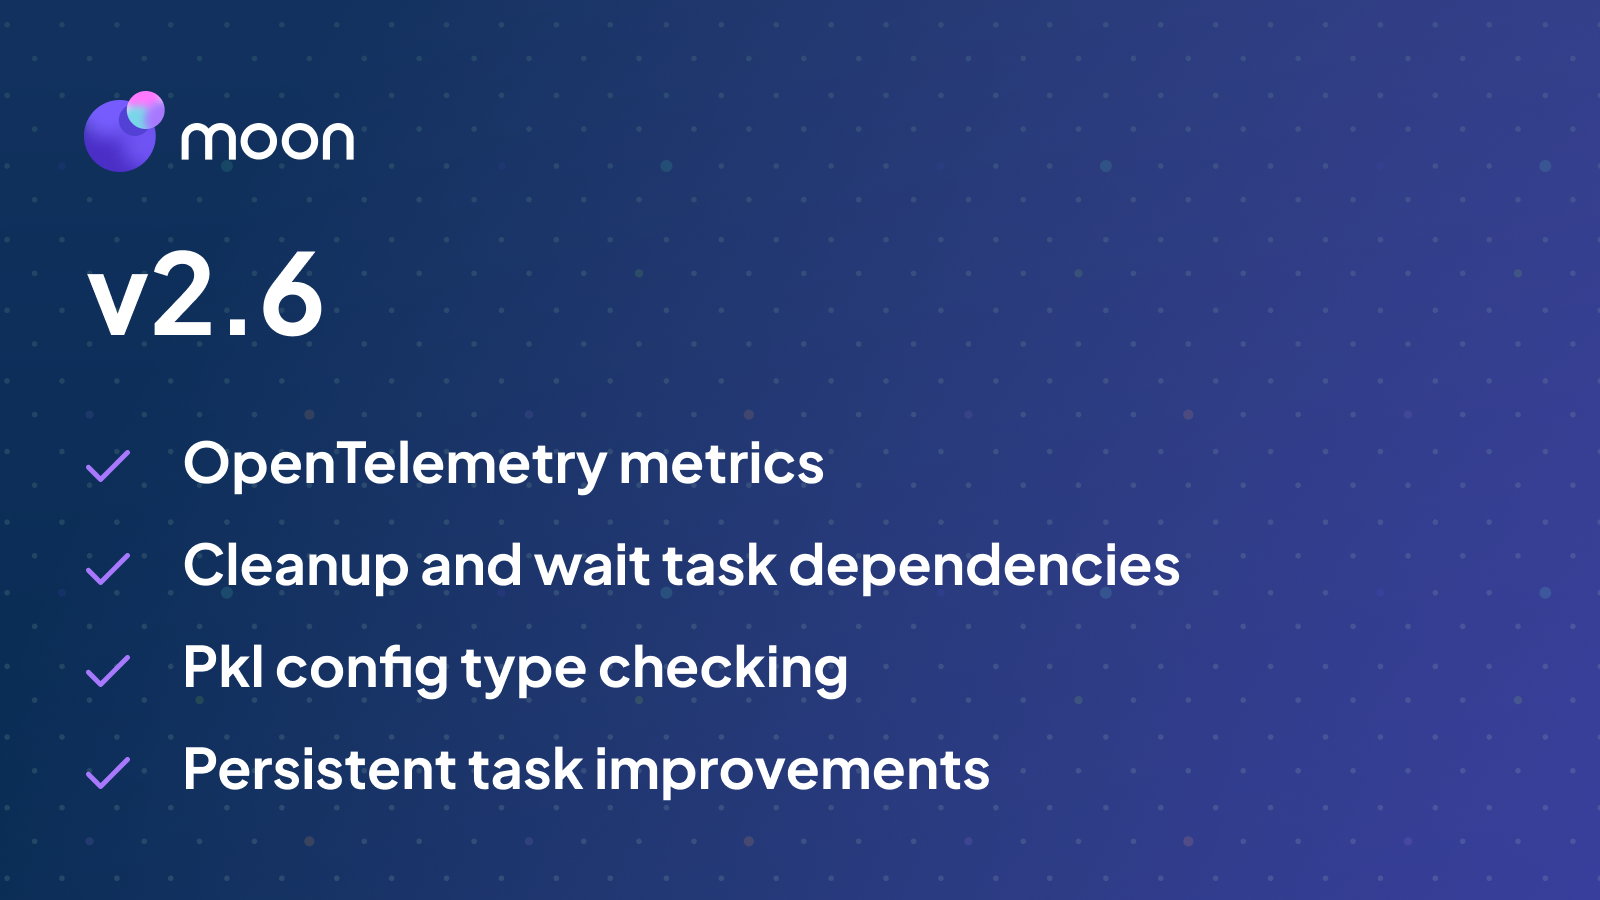
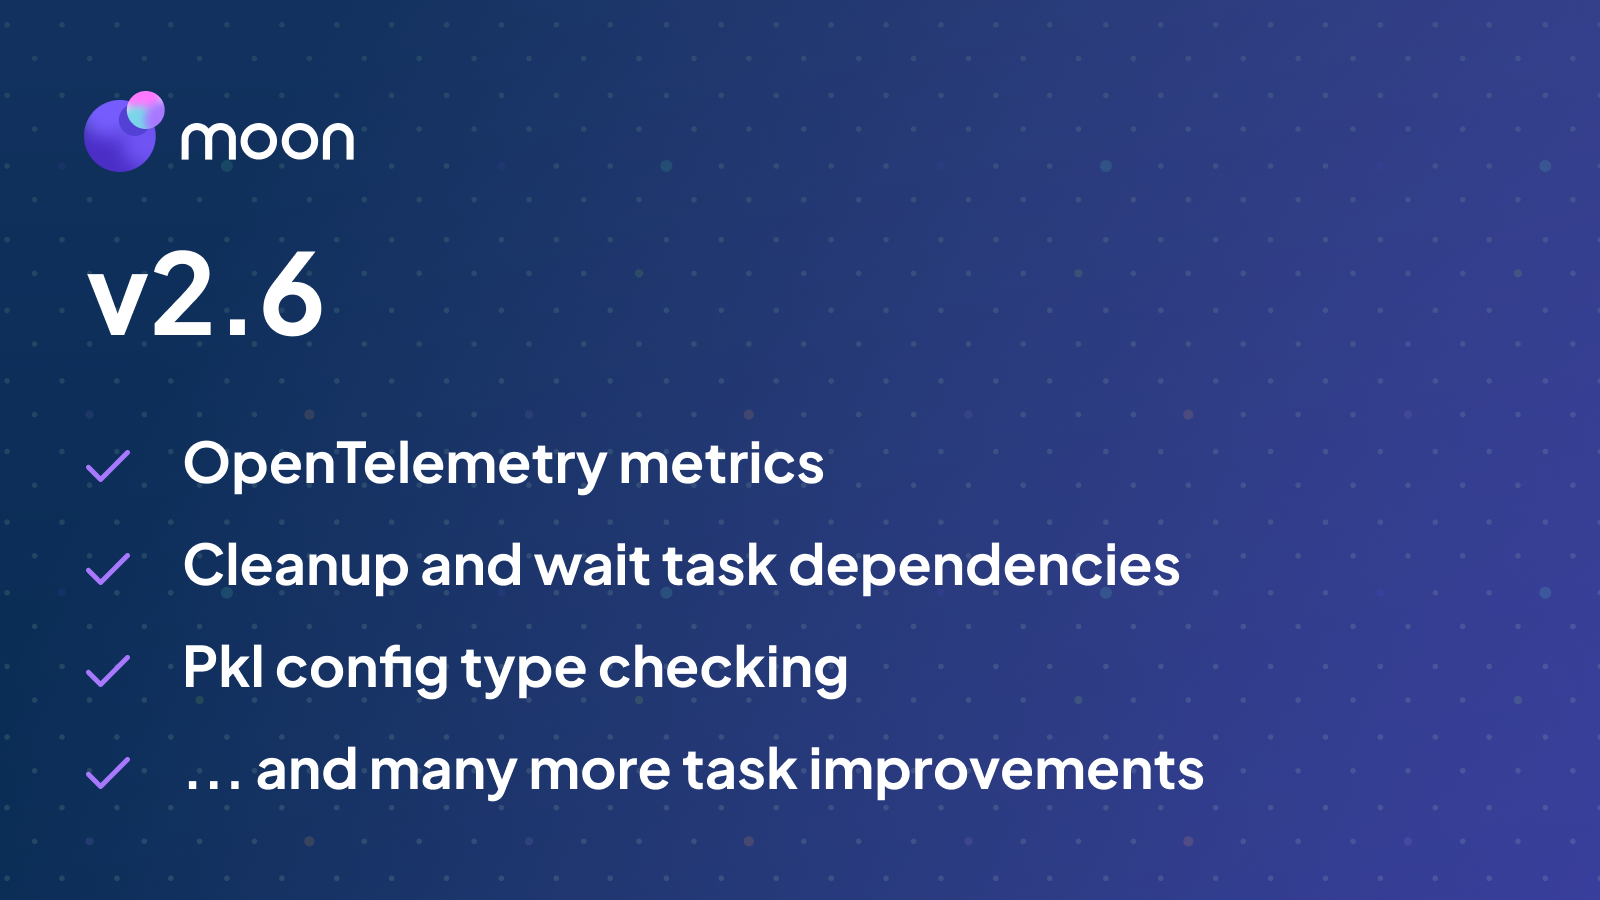
Polish.

Changed region(s): [[0.0938, 0.84, 0.75, 0.9022]]

diff --git a/packages/report/tests/report.test.ts b/packages/report/tests/report.test.ts
@@ -8,6 +8,7 @@ function mockReport(): RunReport {
 		actions: [
 			{
 				allowFailure: false,
+				expectFailure: false,
 				createdAt: '2022-09-12T22:50:12.621680Z',
 				duration: {
 					secs: 0,
@@ -27,6 +28,7 @@ function mockReport(): RunReport {
 			},
 			{
 				allowFailure: false,
+				expectFailure: false,
 				createdAt: '2022-09-12T22:50:12.932177Z',
 				duration: {
 					secs: 1922,
@@ -46,6 +48,7 @@ function mockReport(): RunReport {
 			},
 			{
 				allowFailure: false,
+				expectFailure: false,
 				createdAt: '2022-09-12T22:50:12.932228Z',
 				duration: {
 					secs: 64,
@@ -65,6 +68,7 @@ function mockReport(): RunReport {
 			},
 			{
 				allowFailure: false,
+				expectFailure: false,
 				createdAt: '2022-09-12T22:50:12.932311Z',
 				duration: {
 					secs: 34,

diff --git a/packages/report/tests/action.test.ts b/packages/report/tests/action.test.ts
@@ -5,6 +5,7 @@ import { isFlaky, isSlow } from '../src';
 
 const action: Action = {
 	allowFailure: false,
+	expectFailure: false,
 	createdAt: '2022-09-12T22:50:12.932311Z',
 	duration: {
 		secs: 34,

diff --git a/crates/config-loader/src/toolchains_config_ext.rs b/crates/config-loader/src/toolchains_config_ext.rs
@@ -14,13 +14,13 @@ impl ToolchainsConfigExt {
 
         match id.as_str() {
             "bun" => Some(locate("bun_toolchain", "1.0.5")),
-            "deno" => Some(locate("deno_toolchain", "1.1.2")),
-            "go" => Some(locate("go_toolchain", "1.5.2")),
+            "deno" => Some(locate("deno_toolchain", "1.1.3")),
+            "go" => Some(locate("go_toolchain", "1.5.3")),
             "javascript" => Some(locate("javascript_toolchain", "1.3.2")),
             "node" => Some(locate("node_toolchain", "1.0.5")),
             "npm" => Some(locate("node_depman_toolchain", node_depman_version)),
             "pnpm" => Some(locate("node_depman_toolchain", node_depman_version)),
-            "rust" => Some(locate("rust_toolchain", "1.0.10")),
+            "rust" => Some(locate("rust_toolchain", "1.0.11")),
             "typescript" => Some(locate("typescript_toolchain", "1.1.5")),
             "unstable_nub" => Some(locate("node_depman_toolchain", node_depman_version)),
             "unstable_python" => Some(locate("python_toolchain", "0.3.1")),

diff --git a/CHANGELOG.md b/CHANGELOG.md
@@ -100,6 +100,12 @@
     prepend paths to `PATH`. Variables that are already configured, like a task's `env`, are not
     overridden, and the first toolchain configured for a task takes precedence (#2568).
 
+#### 🧰 Toolchains
+
+- **Deno, Go, Rust**
+  - Added `bins.*.args` support, which are custom arguments passed their respective install command.
+    Bins with args are installed in separate commands.
+
 #### 🐞 Fixes
 
 - Fixed an issue where a task dependency's `env` (`deps.*.env`) would override system environment
